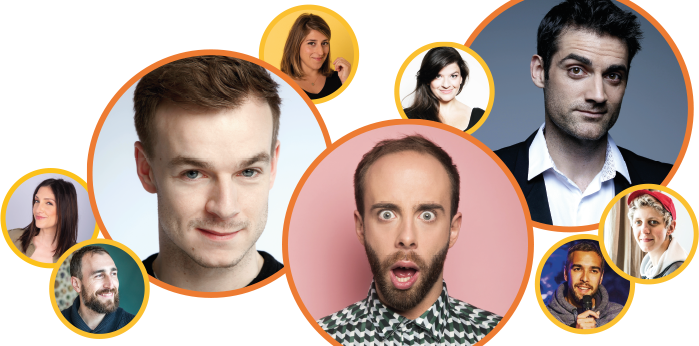
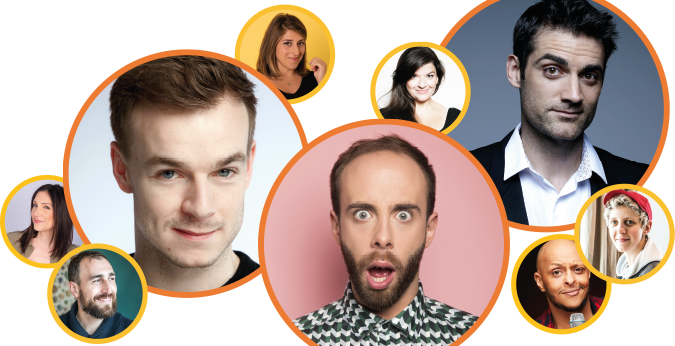
add text for Tristan and fix css

diff --git a/programmation.html b/programmation.html
@@ -41,10 +41,23 @@
       <h2>TRISTAN LOPIN</h2>
       <h3>SAMEDI 25 AVRIL 2020 - 21h40</h3>
       <p>
-        ejfejclejfleajclkejekla
-        ceeceace
-        cjekacea
-        cecec
+        L’humoriste parisien de 32 ans s’est inspiré de sa difficile rupture avec son premier amour pour écrire son <b>one-man-show "Dépendance affective".</b>
+        En effet, quand Clément l’a quitté, Tristan Lopin à sombré. Il s’est noyé dans ses sanglots, perdu dans des questions existentielles, réconforté à grandes cuillerées de Nutella et à goulées de vin blanc ! 
+        Vous voyez de quoi on parle non !?
+        <br>
+        <br>
+        Et comme il le dit si bien :
+        "A mon spectacle, les filles ont l’impression d’être à une soirée entre copines...en mode post rupture"!
+        <br>
+        <br>
+        Si les fidèles de <b>"Vendredi tout est permis"</b> l’ont vu dans l’émission de TF1 à laquelle il participe de temps en temps, le grand public le connaît surtout pour ses vidéos humoristiques qu'il poste sur YouTube et les réseaux sociaux, visionnées en masse.
+        <br>
+        <br>
+        Comme nombre de ses collègues humoristes, il reconnaît être quelqu’un de « très angoissé » et préfère actionner le levier du rire comme <b>mécanisme de défense contre la timidité.</b>
+        <br>
+        <br>
+        Tristan est quelqu'un d'attachant. Il cultive sa différence et continue de rêver secrètement au prince charmant... mais un prince qui répondrait rapidement aux textos !!
+        #DependanceAffective
       </p>
       <div class="social">
         <a href="https://twitter.com/TristanLopin" target="blank"><img class="iconSocial"
@@ -147,7 +160,7 @@
       <div class="infosArtiste">
         <h2>PLATEAU D'HUMORISTES</h2>
         <h3>VENDREDI 24 AVRIL 2020 - 20H45</h3>
-        <img class="photoArtiste4" src="./img//2ndEdition/photogroupe.png" alt="Affiche Gil alma" />
+        <img class="photoArtiste4" src="./img/2ndEdition/plateaugroupe.png" alt="Affiche Gil alma" />
         <p>
           <b>Farah :</b>
           <br>
@@ -186,7 +199,18 @@
           Marina, c'est tout l'inverse !
           Avec son humour, elle assume son bordel, sa flemme et ses tocs !
           Remarquée par ses vidéos de playback bien connues de YOUTUBE don le principe était de parodier les chansons des années 90/2000, Marina est sur scène comme elle est dans la vie : moderne, sans tabous, gentille, bienveillante, honnête et drôle.
+          <br>
+          <br>
+          <b>Tareek :</b>
+          <br>
+          Il excelle dans l'art du stand-up mais pas que ! 
+          A la fois animateur radio et comédien sur plusieurs longs métrages, Tareek a de nombreux talents et une aisance naturelle pour la comédie. 
+          <br>
+          Finaliste de "La France a un incroyable talent" en 2018, son humour a conquis le public et le jury. Il va même recevoir un Golden Buzzer de la part de David Ginola qui salue son talent. 
+          Issu du Jamel Comedy Club, sur scène il enchaîne les vannes avec une facilité naturelle ! Quant à l'improvisation, il s'en amuse et le public avec lui !
+          </p> 
         </p>
+        
       </div>
     </div>
 
@@ -195,7 +219,7 @@
   <footer>
     <p class="credits">Concarn' fait sa comédie © 2019. Tous droits réservés.</p>
   </footer>
-  <script src="style.js"></script>
+  <script src="styleJSProgrammation.js"></script>
 </body>
 
 

diff --git a/index.html b/index.html
@@ -72,7 +72,7 @@
       </a>
     </div>
     <div class="artiste4">
-      <img src="./img/2ndEdition/photogroupe.png" class="plateauArtistes" alt="Plateau 7 artistes humoristes">
+      <img src="./img/2ndEdition/plateaugroupe.png" class="plateauArtistes" alt="Plateau 7 artistes humoristes">
       <div class="artiste4bis">
         <a href="./programmation.html#artiste4">
         <h2 class="nomArtiste4">PLATEAU D'ARTISTES</h2>
@@ -85,17 +85,19 @@
   <div class="bandeauGris">
     <div class="texteLocalisation">
       <h2 class="premiereEdition">2nd EDITION !</h2>
-      <p class="paragrapaheLocalisation">Réunir sur 3 jours le gratin de l’humour actuel, tout en faisant
-        découvrir au public les étoiles montantes !
-        Voilà le pari que nous nous sommes lancés pour cette
-        1ère édition du Festival <b>« Concarn’ fait sa Comédie » </b>!
+      <p class="paragrapaheLocalisation">
+        Fort du <b>succès de la première édition</b>, Concarn’ fait sa comédie est de retour et lance son édition de printemps ! Le but est de faire monter toujours plus de rires sur l’incontournable scène concarnoise du CAC et de donner des rendez-vous réguliers aux spectateurs concarnois tout au long de l’année. 
         <br>
         <br>
-        Elle va permettre au public déjà fidèle, de découvrir
-        de nouveaux humoristes d’aujourd’hui et de demain.
-        Des choix d’artistes dictés par <b>trois critères</b> : talent de l’artiste,
-        la qualité du spectacle, et enfin sa réelle motivation de dynamiser
-        avec nous notre jolie ville de Concarneau.
+        Cette nouvelle programmation se veut toute aussi <b>originale et éclectique</b> que la précédente, plus familiale peut-être. 
+        <br>
+        <br>
+        Vous retrouverez des artistes venus pour la plupart de la scène parisienne mais d’horizons différents qui sauront autant faire rire les jeunes que les moins jeunes. 
+        <br>
+        <br>
+        <b>Au programme :</b> du stand up, du one man show, et du seul en scène, avec le gratin actuel de l’humour. 
+        <br>
+        L’humour s’installe à Concarneau définitivement, soyez en sûr !
       </p>
     </div>
     <img src="./img/localisation.png" id="imgLocalisation" alt="localisation de Concarneau sur la carte en bretagne">

diff --git a/InfosPratiques.html b/InfosPratiques.html
@@ -54,14 +54,14 @@
     <h3>SITE</h3>
     <h4>Accès au site</h4>
     <ul>
-      <li>Ouverture des portes de la salle de spectacle 30min environs avant le début du spectacle </li>
-      <li>Un contrôle visuel des sacs est effectué à l’entrée du site. Pour faciliter l’accès du public dans de bonnes
+      <li>Ouverture des portes de la salle de spectacle 40min environ avant le début du spectacle </li>
+      <li>Un contrôle visuel des sacs est effectué à l’entrée de la salle. Pour faciliter l’accès du public dans de bonnes
         conditions, <br> nous vous invitons à laisser les sacs à dos ou autres grands sacs chez vous ou dans votre
-        voiture <br> (évitez de laisser vos affaires qui ont de la valeur dans votre voiture).</li>
+        voiture <br> (évitez d'y laisser vos affaires qui ont de la valeur).</li>
     </ul>
     <h4>Bar et restauration</h4>
     <ul>
-      <li>Un service bar est à votre disposition sur le site. </li>
+      <li>Un service bar est à votre disposition avant - durant l'entract et après les spectacles. </li>
       <li>La consommation de boissons et de nourriture ne sont pas autorisées dans la salle de spectacle. </li>
     </ul>
   </div>
@@ -81,7 +81,11 @@
         dans le but de promouvoir le festival.</li>
       <li> Les vidéos, les photos (avec ou sans flash) ainsi que les enregistrements sonores sont interdits durant les
         spectacles.</li>
+      <br>
+      <br>
     </ul>
+    <p>En cas de comportement non adapté ou de non respect de ces règles, l'organisateur se réserve le droit de prendre les mesures nécessaires.</p>
+
   </div>
 
   <footer>

diff --git a/styleJSProgrammation.js b/styleJSProgrammation.js
@@ -1,0 +1,21 @@
+let button = document.querySelector(".toggleButton")
+let nav = document.querySelector(".nav")
+let overlay = document.querySelector("#overlay")
+var image = document.getElementById ("logoFb")
+var largeur = window.innerWidth;
+
+
+button.onclick = function(){
+    nav.classList.toggle("navOpen")
+    overlay.classList.toggle("overlayOpen")
+}
+      
+if(largeur > 376){
+        document.getElementById("logoFb").src="img/Icon FB Bleu.png";
+        console.log("test");
+
+
+}
+else{
+        document.getElementById("logoFb").src="img/Icon FB blanc.png";
+}

diff --git a/programmation.css b/programmation.css
@@ -287,7 +287,7 @@ footer{
     margin-top: 76px;
   }
   .container p{
-    text-align: left;
+    text-align: center;
   }
   .container2{
     flex-direction: row-reverse;
@@ -305,6 +305,9 @@ footer{
   .photoArtiste{
     width: 40%;
     margin-top: 0%;
+  }
+  .photoArtiste4{
+    width: 360px;
   }
   /* FOOTER */
   .credits{
